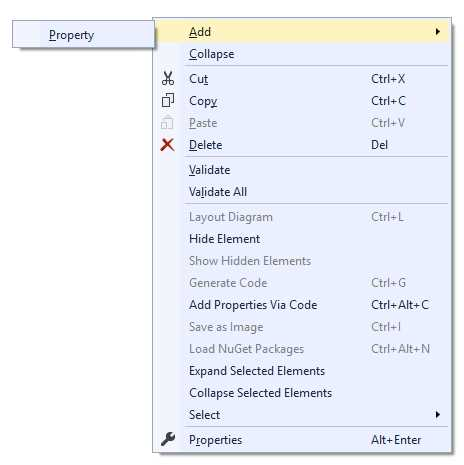
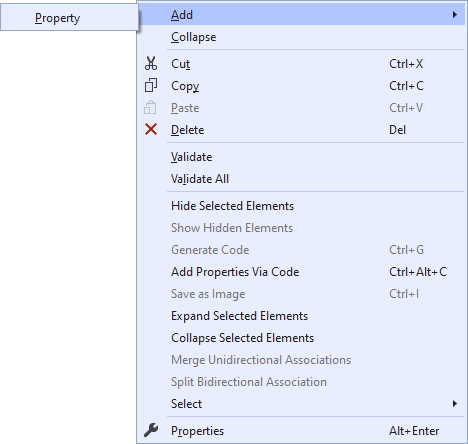
Editing docs

Changed region(s): [[0.0, 0.0, 1.0, 1.0]]

diff --git a/docs/Entities.md b/docs/Entities.md
@@ -1,6 +1,7 @@
 # Persistent Entities
 
-Modeling your persistent entities (classes) is the same experience as most any other modeling tool -- you drag the class onto the design surface from the toolbox, name it, and start adding properties. You won't model operations (methods), though, since our focus is on creating code for Entity Framework. If you want to add operations, you'll do that in partial classes.
+Modeling your persistent entities (classes) is the same experience as most any other modeling tool -- you drag the class onto the design surface from the toolbox, name it, and start adding properties. You won't model operations (methods), though, since our focus is on creating code for Entity Framework. 
+If you want to add operations, you'll do that in partial classes.
 
 ## Adding an Entity
 
@@ -22,16 +23,23 @@ collapsed, it may be expanded back to its original size by clicking the chevron 
 You can collapse and expand the `Properties` and `Associations` compartments by clicking the small `+` (or `-`) icon to the
 left of their gray title bars.
 
+A quick note about the `Associations` compartments. You'll note that they're divided into `Association Sources` and 
+`Association Targets`. This really isn't a big distinction ... it has to do with how you started drawing the association and is
+an artifact of the Microsoft Modeling SDK. One day (hopefully) they'll be combined into just `Associations`, but that will take
+a refactoring of the inner structure of the designer and is a Big Deal. There's [more about Associations](Associations) later.
+
 ## Removing an Entity
 
-To remove an entity, simply select it and hit the Delete key. It will be removed from the model completely without confirmation.
+To remove an entity, simply select it (from either the design surface or the model explorer) and hit the Delete key. 
+It will be removed from the model completely without confirmation, as will its associations with other classes. 
+If you do this by accident, you can undo it (Ctrl-Z or Edit/Undo from the menu).
 
 If that entity is the superclass (base class) for other entities, you'll be asked if you want to push its
 attributes and associations down to those other entities prior to its removal.
 
 ## Entity Properties
 
-Selecting the entity allows you to edit its various properties:
+Selecting the entity from either the design surface or the model explorer allows you to edit its various properties:
 
 <table>
 <thead>
@@ -40,10 +48,13 @@ Selecting the entity allows you to edit its various properties:
 <tbody>
 <tr><td valign="top" colspan="2" style="background-color: gainsboro"><b>Code Generation</b></td></tr>
 <tr><td valign="top"> Abstract                           </td><td valign="top"> <i>Boolean</i>. If true, an abstract class will be generated for this entity.</td></tr>
+<tr><td valign="top"> Auto Property Default              </td><td valign="top"> <i>Boolean</i>. If true, Properties for this class will be created as AutoProperties with just bare getters and setters. Otherwise, they'll have a backing field and code in the getters and setters to move the `value` parameters. In this case, you'll also have partial methods available to modify the results. </td></tr>
+<tr><td valign="top"> Base Class                         </td><td valign="top"> <i>String</i>. The name of the class pointed to by the `Inheritance` link in the designer. You can change it here and the link will change in the designer.</a>.</td></tr>
 <tr><td valign="top"> Concurrency                        </td><td valign="top"> <i>String</i>. Overrides the default concurrency handling strategy. Values are 'Optimistic' and 'None'. See <a href="https://docs.microsoft.com/en-us/aspnet/mvc/overview/getting-started/getting-started-with-ef-using-mvc/handling-concurrency-with-the-entity-framework-in-an-asp-net-mvc-application">Handling Concurrency with the Entity Framework 6 in an ASP.NET MVC 5 Application</a>.</td></tr>
 <tr><td valign="top"> Custom Attributes                  </td><td valign="top"> <i>String</i>. Attributes generated in the code for this element - anything here will be generated verbatim into the code in the class definition.</td></tr>
 <tr><td valign="top"> Custom Interfaces                  </td><td valign="top"> <i>String</i>. Any custom interface(s) this entity should implement. If more than one, separate them with commas - anything here will be generated verbatim into the code in the class definition.</td></tr>
 <tr><td valign="top"> DbSet Name                         </td><td valign="top"> <i>String</i>. The name of the DbSet property in the DbContext for this class.</td></tr>
+<tr><td valign="top"> Generate Code                      </td><td valign="top"> <i>Boolean</i>. If true (the default), code will be generated for this class. If false, it is assumed to be referenced from another assembly.</td></tr>
 <tr><td valign="top"> Implement INotifyPropertyChanged   </td><td valign="top"> <i>Boolean</i>. If true, will generate code for easy implementation of property change notifications.</td></tr>
 <tr><td valign="top"> Name                               </td><td valign="top"> <i>String</i>. The name of this class.</td></tr>
 <tr><td valign="top"> Namespace                          </td><td valign="top"> <i>String</i>. The namespace for this class.</td></tr>
@@ -79,9 +90,14 @@ Right-clicking on an entity displays a Visual Studio context menu with some new 
 <tr><td valign="top"> Cut, Copy, Paste, Delete                 </td><td valign="top">You can cut or copy, then paste, classes and enums. The pasted elements will be adjusted so that they don't violate any rules (such as two elements not having the same name), but otherwise the properties will stay the same. If no classes or enums are selected in the designer, the cut and copy options will be disabled. If no classes or enums are in the clipboard, the paste option will be disabled.</td></tr>
 <tr><td valign="top"> Validate                                 </td><td valign="top">Checks the currently selected entity against the validation rules built into the designer. Errors or warnings are displayed in Visual Studio's Error List window. If no element is selected, this validates the design surface itself.</td></tr>
 <tr><td valign="top"> Validate All                             </td><td valign="top">Checks all model elements against the afore mentioned validation rules. Errors or warnings are displayed in Visual Studio's Error List window.</td></tr>
-<tr><td valign="top"> Hide Element                             </td><td valign="top">Hides the currently selected entity on the diagram. Any lines to or from that entity will be hidden as well. This does not remove the entity from the model, only makes it invisible in the diagram. Useful for tidying up a diagram that would otherwise be unreadable due to, for example, a common base class that all other classes inherit from. If no entity is selected, this option will be disabled.</td></tr>
+<tr><td valign="top"> Hide Selected Elements                   </td><td valign="top">Hides the currently selected elements on the diagram. Any lines to or from those elements will be hidden as well. This does not remove the entity from the model, only makes it invisible in the diagram. Useful for tidying up a diagram that would otherwise be unreadable due to, for example, a common base class that all other classes inherit from. If no entity is selected, this option will be disabled.</td></tr>
 <tr><td valign="top"> Show Hidden Elements                     </td><td valign="top">Unhides any elements that were previously hidden, along with their association or inheritance lines. If no elements are hidden, this option will be disabled.</td></tr>
 <tr><td valign="top"> Add properties via Code                  </td><td valign="top">Displays a dialog that lets you add multiple properties using the designer's custom property syntax. See "<a href="Properties.html#adding-properties-via-code-custom-property-syntax">Adding properties via code</a>" for more details.</td></tr>
+<tr><td valign="top"> Save as Image                            </td><td valign="top">Will save the entire diagram as an image. Format choices are BMP, GIF, JPG, PNG, TIFF and WMF.</td></tr>
+<tr><td valign="top"> Expand Selected Elements                 </td><td valign="top">Expands any selected elements that are collapsed to their headers.</td></tr>
+<tr><td valign="top"> Collapse Selected Elements               </td><td valign="top">Collapses any elements down to their headers.</td></tr>
+<tr><td valign="top"> Merge Unidirectional Associations        </td><td valign="top">Available when you have two Unidirectional Associations selected that both connect the same classes. Turns them into one Bidirectional Association (the inverse of <i>Split Bidirectional Association</i>, below).</td></tr>
+<tr><td valign="top"> Split Bidirectional Association          </td><td valign="top">Available when you have a Bidirectional Association selected. Turns it into two Unidirectional Associations (the inverse of <i>Merge Unidirectional Associations</i>, above.).</td></tr>
 <tr><td valign="top"> Select                                   </td><td valign="top">One of the features of the Visual Studio property editor is the ability to edit properties of multiple items if they share that property. This submenu gives you the ability to select model elements by type so that you can conveniently edit properties of those elements together (e.g., setting the color of multiple classes all at once). If the pertinent element type isn't present in the designer, that option will be disabled.<br/>
    <table>
    <tr><td valign="top"> Select all classes...                    </td><td valign="top">Select all class elements in the designer</td></tr>
@@ -97,7 +113,7 @@ Right-clicking on an entity displays a Visual Studio context menu with some new 
 ### INotifyPropertyChanged
 
 You can optionally implement the standard `INotifyPropertyChanged` interface, especially useful for data binding in WinForms applications. By changing that property to `True` (by
-default it's `False`),. the standard T4 templates will generate code you can customize by implementing a partial method.
+default it's `False`), the standard T4 templates will generate code you can customize by implementing a partial method.
 
 The shape on the diagram will change to have a dashed blue border, helping you immediately see which classes will generate 
 change notification code. Since `INotifyPropertyChanged` requires a bit of logic, the properties of that class won't be 

diff --git a/docs/Using-the-designer.md b/docs/Using-the-designer.md
@@ -1,9 +1,11 @@
 # Using the Designer 
 Let's add a design surface to our new project.
 
-<img src="images/AddNewItem.jpg">
+<img src="images/AddNewItem.jpg" vspace="10">
 
-<img align="right" src="images/Solution2.jpg" hspace="10">
+&nbsp;
+
+<img align="right" src="images/Solution2.jpg" hspace="10" vspace="10">
 
 - Right-click the project root and select _Add/New Item..._ from the dropdown menu.
 - Find the _Data_ folder under _Visual C# Items_ in the tree to the left and select _Entity Framework Visual Editor_ from the list.
@@ -19,29 +21,28 @@ Three files will be added to your project: MyModel.efmodel, MyModel.efmodel.diag
 
 Should you decide to rename these files later, **it's important that the file names stay in sync**. In fact, if you do rename them, you'll need to make a manual edit to the .tt to let it know the name of the .efmodel file, since it needs to find that when you want to generate code. That's in line 17 of the .tt file, but we'll talk more about that later.
 
+&nbsp;
+
+&nbsp;
+
 <img align="right" src="images/Toolbox.jpg" hspace="10" vspace="10">
 
 Open the .efmodel file and -- so exciting! -- you're presented with a blank screen. No worries -- this is where you'll model your classes. In your toolbox, you'll see various items that can be added to model.
 
-<table>
-<thead>
-<tr><th valign="top"><b>Tool</b></th><th valign="top"><b>Description</b></th></tr>
-</thead>
-<tbody>
-<tr><td valign="top"> Entity                     </td><td valign="top"> A persistent class </td></tr>
-<tr><td valign="top"> Unidirectional Association </td><td valign="top"> A navigation property that only goes one way. The starting class will have a property of the type of the ending class (or a collection of them, depending on cardinality), but not the other way around. </td></tr>
-<tr><td valign="top"> Bidirectional Association  </td><td valign="top"> A navigation property that will create properties in classes on both ends. </td></tr>
-<tr><td valign="top"> Inheritance                </td><td valign="top"> Standard .NET inheritance (and its associated constraints). Start the line at the derived class and point to the base class </td></tr>
-<tr><td valign="top"> Comment                    </td><td valign="top"> Add a comment box anywhere on the model </td></tr>
-<tr><td valign="top"> Comment Link               </td><td valign="top"> Link an existing comment to an Entity or Enum. Not required since comments can be free-floating, but nice to have if the comment refers to something specific on the diagram. </td></tr>
-<tr><td valign="top"> Enum                       </td><td valign="top"> An enumeration </td></tr>
-</tbody>
-</table>
+- **Entity** : A persistent class 
+- **Unidirectional Association** :  A navigation property that only goes one way. The starting class will have a property of the type of the ending class (or a collection of them, depending on cardinality), but not the other way around. 
+- **Bidirectional Association** :  A navigation property that will create properties in classes on both ends. 
+- **Inheritance** :  Standard .NET inheritance (and its associated constraints). Start the line at the derived class and point to the base class 
+- **Comment** :  Add a comment box anywhere on the model 
+- **Comment Link** :  Link an existing comment to an Entity or Enum. Not required since comments can be free-floating, but nice to have if the comment refers to something specific on the diagram. 
+- **Enum** :  An enumeration 
+
 
 ## Design Surface Properties
 
 A peek at the Property page when you have the design surface selected (the background, rather than anything on it), shows the properties pertinent to the model itself and the DbContext class you'll generate. These are as follows:
 
+<div style="font-size:11px;">Depending on context, not all choices may be visible at any given time</div>
 <table>
 <thead>
 <tr><th valign="top"><b>Property</b></th><th valign="top"><b>Description</b></th></tr>
@@ -114,6 +115,7 @@ Right-clicking on the design surface displays a Visual Studio context menu with 
 
 <img src="images/DesignerMenu.jpg" hspace="10" vspace="10">
 
+<div style="font-size:11px;">Depending on context, not all choices may be visible at any given time</div>
 <table>
 <thead>
 <tr><th valign="top"><b>Menu choice</b></th><th valign="top"><b>Description</b></th></tr>
@@ -128,7 +130,6 @@ Right-clicking on the design surface displays a Visual Studio context menu with 
 <tr><td valign="top">Generate Code                            </td><td valign="top">Generates code for the elements modeled in the designer. If no elements are in the designer, this option will be disabled.</td></tr>
 <tr><td valign="top">Add properties via Code                  </td><td valign="top">Displays a dialog that lets you add multiple properties using the designer's custom property syntax. See "<a href="Properties.html#adding-properties-via-code-custom-property-syntax">Adding properties via code</a>" for more details.</td></tr>
 <tr><td valign="top">Save as Image                            </td><td valign="top">Creates an image (bmp/gif/jpg/png/tiff/wmf) file of the designer and lets you save it as a file. If no elements are in the designer, this option will be disabled.</td></tr>
-<tr><td valign="top">Load NuGet Packages                      </td><td valign="top">Will reset the references in the designer's project to load NuGet packages for the Entity Framework version selected in the designer.</td></tr>
 <tr><td valign="top">Expand Selected Elements                 </td><td valign="top">Will expand any selected classes or enums that are collapsed back to their full height. If none selected or none of the selected items are collapsed, this option will be disabled.</td></tr>
 <tr><td valign="top">Collapse Selected Elements               </td><td valign="top">Will collapse down to the title bar any selected classes or enums that are full height. If none selected or all of the selected items are collapsed, this option will be disabled.</td></tr>
 <tr><td valign="top">Select                                   </td><td valign="top">One of the features of the Visual Studio property editor is the ability to edit properties of multiple items if they share that property. This submenu gives you the ability to select model elements by type so that you can conveniently edit properties of those elements together (e.g., setting the color of multiple classes all at once). If the pertinent element type isn't present in the designer, that option will be disabled.<br/>
@@ -170,11 +171,13 @@ You can add elements here as well by right-clicking the top tree node (with the 
 
 ### Diagrams
 
-On the topic of too big models, a feature introduced in version 2.0 of the designer is the ability to add multiple diagram views
-to your model. 
+On the topic of too-big models, you can now add multiple diagrams to your model (as of version 2.0). The diagrams are views on the model data, and 
+can display any subset of your model to help create a laser focus on those things you want to see without the clutter of the rest of the elements.
 
 Add a diagram by right-clicking the model explorer and selecting (oddly enough) "Add New Diagram". You'll get an empty design surface
-with a default name that you can change in the Property window. We'll go into the details of multiple diagrams later. 
+with a default name that you can change in the Property window. 
+
+We'll go into more details of multiple diagrams later. 
 
 ### Generating Code
 

diff --git a/docs/Properties.md b/docs/Properties.md
@@ -10,10 +10,11 @@ suit your use cases.
 
 There are a few ways to add a property to an entity:
 
-- Right click the _Properties_ category heading right below the name of the entity on the diagram and choose _Add new Property_ .
-- Right click the name of the entity and select _Add_, then _Property_ from its context menu.
-- With the _Properties_ category heading selected, hit the _Insert_ key
-- With any property selected in the entity, hit _Enter_.
+- Right click the _Properties_ category heading right below the name of the entity on the designer and choose _Add new Property_ .
+- Right click the name of the entity on the designer and select _Add_, then _Property_ from its context menu.
+- With the _Properties_ category heading selected on the designer, hit the _Insert_ key
+- With any property selected in the entity on the designer, hit _Enter_.
+- Right click the entity in the Model Explorer and select _Add New Property_.
 
 A new property will be added to the entity and you'll have the opportunity to change its name from the default generated name. An advanced feature
 of the designer also gives you the opportunity to change its type, whether or not it's an identity field, and whether or not its value is required to be
@@ -21,7 +22,7 @@ other than the type's default value at runtime (i.e., a _required_ property). Se
 
 ## Removing a Property
 
-To remove a property, simply select it and hit the Delete key. It will be removed from the model completely without confirmation.
+To remove a property, simply select it (on the designer or the Model Explorer) and hit the Delete key. It will be removed from the model completely without confirmation.
 
 ## Property Properties
 
@@ -33,15 +34,17 @@ Selecting a property gives you access to **its** properties in the Property wind
 </thead>
 <tbody>
 <tr><td valign="top" colspan="2" style="background-color: gainsboro"><b>Code Generation</b>  </td></tr>
+<tr><td valign="top">Abstract                                                                </td><td valign="top"><i>Boolean.</i> If false, this is a normal property. If true, it will be generated as an abstract property and the entity will be marked as abstract as well. Note that setting it from true to false does <b>not</b> reset the entity's <i>Abstract</i> property back to <i>false</i>. </td></tr>
 <tr><td valign="top">Auto Property                                                           </td><td valign="top"><i>Boolean.</i> If false, generates a backing store field with a partial method to hook getting and setting the property. If true, generates a simple auto property.</td></tr>
 <tr><td valign="top">Custom Attributes                                                       </td><td valign="top"> <i>String</i>. Attributes generated in the code for this element - anything here will be generated verbatim into the code in the class definition.</td></tr>
 <tr><td valign="top">Display Text                                                            </td><td valign="top"> <i>String</i>. Will cause the generation of a [Display(Name="&lt;text&gt;")] attribute tag in the code.</td></tr>
+<tr><td valign="top">Implement INotifyPropertyChanged                                        </td><td valign="top"><i>Boolean.</i> If true, will cause this property to not be an autoproperty and will add code to implement INotifyPropertyChanged to the setter. If false, that code won't be generated, and the <i>AutoProperty</i> value can be set back to true (setting this value to <i>false</i> won't change <i>AutoProperty</i> back).</td></tr>
 <tr><td valign="top">Initial Value                                                           </td><td valign="top"><i>String</i>. Value for attribute when first created. Will be validated to ensure entry is appropriate for the property's type</td></tr>
 <tr><td valign="top">Name                                                                    </td><td valign="top">The name of the property. Must be a valid C# symbol.</td></tr>
 <tr><td valign="top">Persistent                                                              </td><td valign="top"><i>Boolean.</i> If true, Attribute will be stored in persistent storage</td></tr>
 <tr><td valign="top">Read Only                                                               </td><td valign="top"><i>Boolean.</i> If true, no setter will be generated. Only valid for transient public properties.</td></tr>
 <tr><td valign="top">Required                                                                </td><td valign="top"><i>Boolean.</i> If true, cannot be null (or the default value for the property type, if not nullable)</td></tr>
-<tr><td valign="top">Setter Visibility                                                       </td><td valign="top"><i>String</i>. Visibility for property setter; getter is public. Valid entries are public and protected.</td></tr>
+<tr><td valign="top">Setter Visibility                                                       </td><td valign="top"><i>String</i>. Visibility for property setter; getter is public. Valid entries are public and protected. This setting is unavailable if the property is an <i>Identity</i> and autogenerated. </td></tr>
 <tr><td valign="top">Type                                                                    </td><td valign="top"><i>String</i>. Type of this attribute. Select from list of valid types. If you pick a type that can't be used as an identity, the <i>Is Identity</i> and <i>Identity Type</i> properties will be removed.</td></tr>
 <tr><td valign="top">Virtual                                                                 </td><td valign="top"><i>Boolean.</i> If true, property will be generated with the 'virtual' keyword</td></tr>
 
